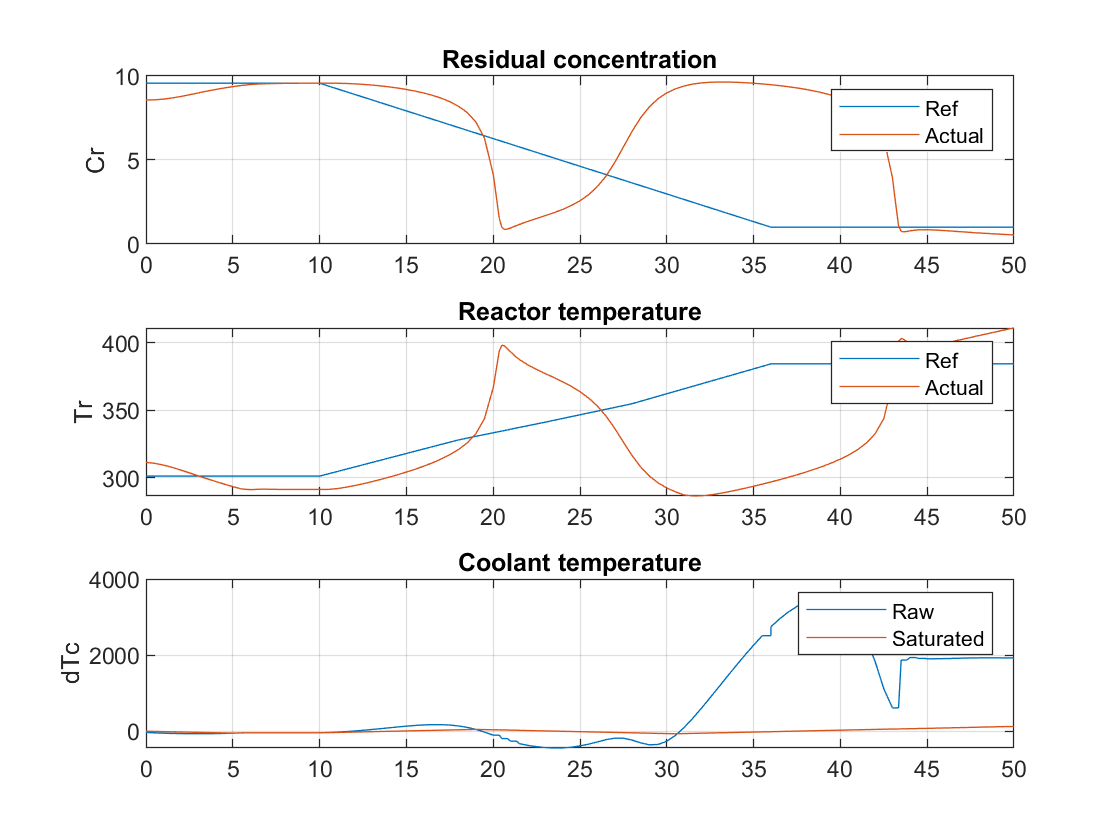
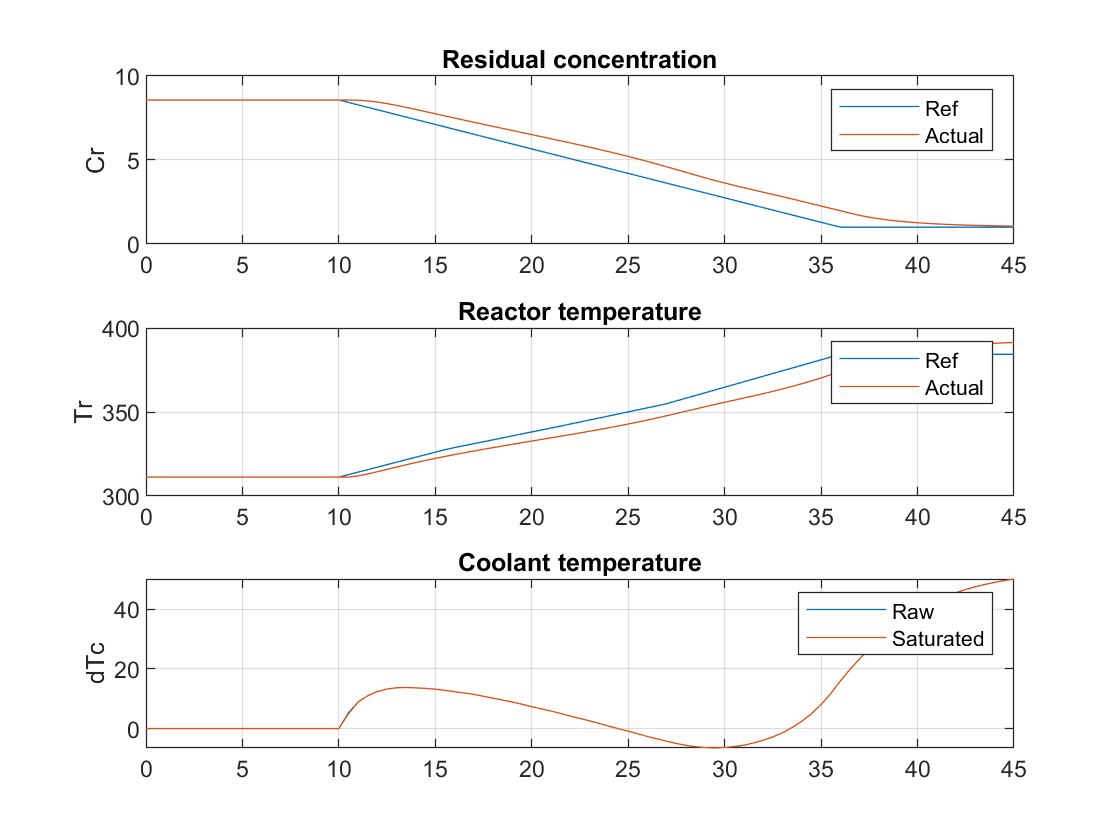
Converting setpoint schedules back to original problem, re calculated benchmark metrics

diff --git a/samples/chemical-process-optimization/run_benchmark.m b/samples/chemical-process-optimization/run_benchmark.m
@@ -18,7 +18,7 @@ Cr_vec = [2 2.5 3 3.5 4 4.5 5 5.5 6 6.5 7 7.5 8 8.5 9];
 
 open_system('ChemicalProcessOptimization')
 
-target_t = [0; 2; 28; 45];
+target_t = [0; 10; 36; 45];
 target_Cr = [8.57; 8.57; 2; 2]; 
 signalbuilder('ChemicalProcessOptimization/Target concentration', 'set', 'Signal 1', 'Group 1', target_t, target_Cr);
 
@@ -34,6 +34,14 @@ a_vec = ones(1, length(Cr_vec)) * 0.384207621232031;
 b_vec = ones(1, length(Cr_vec)) * 0.0628087670628903;
 
 sim('ChemicalProcessOptimization')
+% Calculate metrics
+metric_rms = sqrt(mean((simout(:, 1) - simout(:, 2)).^2));
+disp(['Constant Gains: Target Concentration followed with RMS of: ', num2str(metric_rms)])
+
+metric_rms = sqrt(mean((simout(:, 3) - simout(:, 4)).^2));
+disp(['Constant Gains: Target Reactor Temperature followed with RMS of: ', num2str(metric_rms)])
+disp('~~~~~~~~~~~~~~~~~~~~~~~~~~~~~')
+
 plot_results(tout, simout)
 
 %% Benchmark
@@ -58,29 +66,60 @@ sim('ChemicalProcessOptimization')
 
 % Calculate metrics
 metric_rms = sqrt(mean((simout(:, 1) - simout(:, 2)).^2));
-disp(['Target Concentration followed with RMS of: ', num2str(metric_rms)])
+disp(['Benchmark: Target Concentration followed with RMS of: ', num2str(metric_rms)])
+
+metric_rms = sqrt(mean((simout(:, 3) - simout(:, 4)).^2));
+disp(['Benchmark: Target Reactor Temperature followed with RMS of: ', num2str(metric_rms)])
+disp('~~~~~~~~~~~~~~~~~~~~~~~~~~~~~')
 
 plot_results(tout, simout)
 
-%% Benchmark Stretch
-target_t = [0; 2; 28; 50];
+%% Benchmark (stretch - 1% noise)
 
-% Change the target concentration ranges, extrapolating from gain schedule
-target_Cr = [10; 10; 1; 1];
-signalbuilder('ChemicalProcessOptimization/Target concentration', 'set', 'Signal 1', 'Group 1', target_t, target_Cr);
-% Sim starting params (check inside sim on derivative blocks -- initial value)
-Cr_sim_ini = 10;
-Tr_sim_ini = 296.6908;
+% Percentage of noise to include
+noise_magnitude = 1/100;
+% Auxiliary params
+conc_noise = (CrEQ(1)-CrEQ(5))*noise_magnitude;
+temp_noise = (TrEQ(1)-TrEQ(5))*noise_magnitude;
 
 sim('ChemicalProcessOptimization')
+
+% Calculate metrics
+metric_rms = sqrt(mean((simout(:, 1) - simout(:, 2)).^2));
+disp(['Strech Benchmark (noise): Target Concentration followed with RMS of: ', num2str(metric_rms)])
+
+metric_rms = sqrt(mean((simout(:, 3) - simout(:, 4)).^2));
+disp(['Strech Benchmark (1% noise): Target Reactor Temperature followed with RMS of: ', num2str(metric_rms)])
+disp('~~~~~~~~~~~~~~~~~~~~~~~~~~~~~')
+
 plot_results(tout, simout)
 
-% RESET SIGNAL to initial value (to avoid conflicts with bonsai training)
-target_Cr = [8.57; 8.57; 2; 2]; 
-signalbuilder('rct_CSTR_bonsai/Target concentration', 'set', 'Signal 1', 'Group 1', target_t, target_Cr);
-% RESET Sim starting params (check inside sim on derivative blocks -- initial value)
-Cr_sim_ini = 8.57;
-Tr_sim_ini = 311.2612;
+
+%% Benchmark (stretch -  target Cr of 1)
+
+% get rid of noise
+init_vars
+
+% Change the target concentration ranges, extrapolating from gain schedule
+target_Cr = [8.57; 8.57; 1; 1];
+signalbuilder('ChemicalProcessOptimization/Target concentration', 'set', 'Signal 1', 'Group 1', target_t, target_Cr);
+
+sim('ChemicalProcessOptimization')
+
+% Calculate metrics
+metric_rms = sqrt(mean((simout(:, 1) - simout(:, 2)).^2));
+disp(['Strech Benchmark (Cr of 1): Target Concentration followed with RMS of: ', num2str(metric_rms)])
+
+metric_rms = sqrt(mean((simout(:, 3) - simout(:, 4)).^2));
+disp(['Strech Benchmark (Cr of 1): Target Reactor Temperature followed with RMS of: ', num2str(metric_rms)])
+disp('~~~~~~~~~~~~~~~~~~~~~~~~~~~~~')
+
+plot_results(tout, simout)
+
+%% Initialize Default Variables to avoid issues with Bonsai training
+% i.e. signal builder
+% no noise, etc
+init_vars
 
 %% Functions 
 

diff --git a/samples/chemical-process-optimization/init_vars.m b/samples/chemical-process-optimization/init_vars.m
@@ -7,18 +7,23 @@ load('CSTRData.mat')
 % Type of control to apply with Bonsai
 % Option 1: Per-iteration increment control:  change_per_step_Tc_control = 1
 % Option 2: Absolute delta from initial Tc    change_per_step_Tc_control = 2
-change_per_step_Tc_control = 2;
+change_per_step_Tc_control = 1;
 
 % Scenario to be run - 4 scenarios: 1-based INT
-% > 1: Concentration transition -->  8.57 to 2.000
-% > 2: Concentration transition -->  8.57 to 3.6425
-% > 3: Concentration transition -->  8.57 to 5.2850
-% > 4: Concentration transition -->  8.57 to 6.9275
+% > 1: Concentration transition -->  8.57 to 2.000 over [0, 10, 36, 45]
+% > 2: Concentration transition -->  8.57 to 2.000 over [0, 2, 28, 45]
+% > 3: Concentration transition -->  8.57 to 2.000 over [0, 10, 20, 45]
+% > 4: Concentration transition -->  8.57 to 1.000 over [0, 10, 36, 45]
+
+% This writes to the Default Signal builder (j_scenario = 1)
+target_t = [0; 10; 36; 45];
+target_Cr = [8.57; 8.57; 2; 2]; 
+signalbuilder('ChemicalProcessOptimization/Target concentration', 'set', 'Signal 1', 'Group 1', target_t, target_Cr);
+
 j_scenario = 1;
 
 % Percentage of noise to include
 noise_magnitude = 0/100;
-
 
 %% GENERAL SETTINGS
 

diff --git a/samples/chemical-process-optimization/README.md b/samples/chemical-process-optimization/README.md
@@ -96,11 +96,13 @@ Currently we operate under one configuration only, the shceduled values are fixe
 | Tref | 311.3 | 373.1 | [Kelvin] |
 | dTc | 0 | 7 | [Kelvin] |
 
-## Choosing Controller Type
+## Switching between Benchmark and Bonsai Block
+
+The controller block in ChemicalProcessOptimization.slx allows you to use the same file for both the benchmark controller and the bonsai brain. Simply right click on the block, then choose Variant-> Label Mode Active Choice -> Bonsai.
 
 <img src="img/variant.png" alt="drawing" width="500"/>
 
-## Constant Gains (No Table Lookup)
+## Constant Gain Controller (No Table Lookup)
 
 Constant gains demonstrate the instabilities and how complex it is to transition from 8.57 kmol/3 to 2 kmol/m3
 
@@ -108,7 +110,8 @@ Constant gains demonstrate the instabilities and how complex it is to transition
 
 ## Benchmark
 
-- 0.4045 kmol/m3 mean error (per iteration)
+- 0.5641 kmol/m3 rms error
+- 4.6046 degrees K rms error
 
 <img src="img/benchmark.png" alt="drawing" width="500"/>
 
@@ -116,7 +119,9 @@ Note, **"run_benchmark.m" contains the information required to retrieve the benc
 
 ## Bonsai Brain
 
-- 0.3973 kmol/m3 mean error (per iteration)
+- 0.3973 kmol/m3 mean error (per iteration)*
+
+** different set schedule
 
 <img src="img/brain_assessment.png" alt="drawing" width="500"/>
 
@@ -144,7 +149,7 @@ To evaluate performance a Python script is provided under "sim_evaluation" folde
 
 ## Benchmark Stretched
 
-The gains were designed with a specific region in mind and here we changed the range from [8.57, 2] to [9.57, 1] kmol/m3. 
+The gains were designed with a specific region in mind and here we changed the range from [8.57, 2] to [8.57, 1] kmol/m3. 
 
 <img src="img/benchmark_stretch.png" alt="drawing" width="500"/>
 
@@ -152,4 +157,4 @@ The gains were designed with a specific region in mind and here we changed the r
 
 [Simulink Example](https://www.mathworks.com/help/control/ug/gain-scheduled-control-of-a-chemical-reactor.html;jsessionid=46145216a86340e49ff92683290f#d122e64826)
 
-> Seborg, D.E. et al., "Process Dynamics and Control", 2nd Ed., 2004, Wiley, pp. 34-36.ss 
+> Seborg, D.E. et al., "Process Dynamics and Control", 2nd Ed., 2004, Wiley, pp. 34-36.ss
